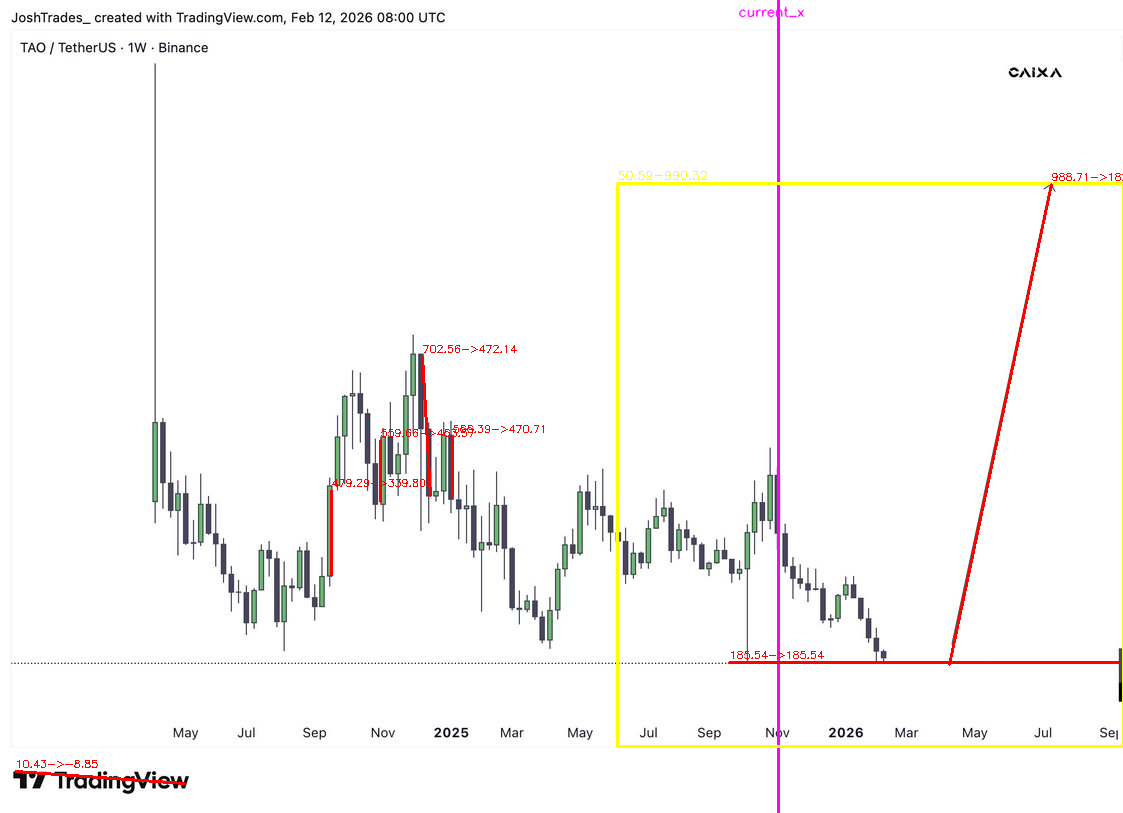
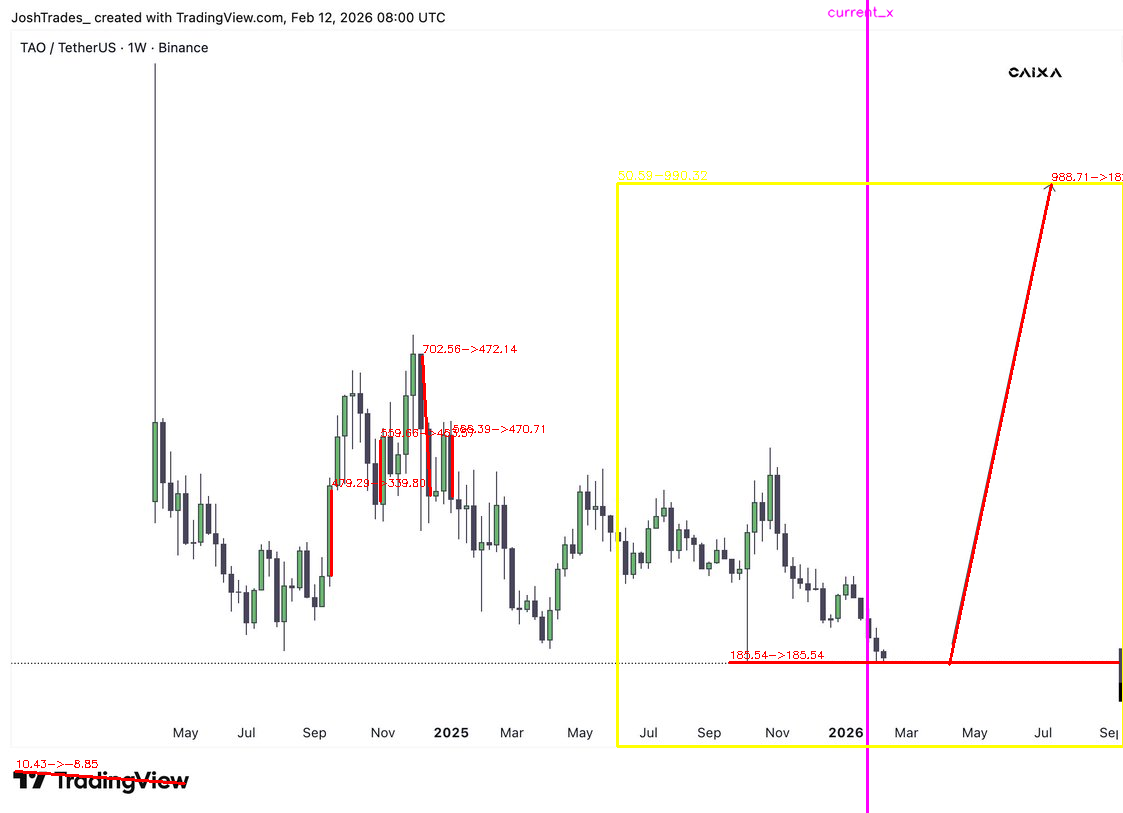
c4: add current_x marker and harden last-candle x detection

Changed region(s): [[0.6545, 0.0, 0.7168, 0.0308], [0.748, 0.0, 0.7792, 0.0308]]

diff --git a/src/c4/stages/candles_detect.py b/src/c4/stages/candles_detect.py
@@ -79,14 +79,88 @@ def run(
     x_right_limit_local = max(1, x_right_limit_local)
 
     analysis_crop = plot_crop[:, :x_right_limit_local]
+    analysis_w = int(analysis_crop.shape[1])
     gray = cv2.cvtColor(analysis_crop, cv2.COLOR_BGR2GRAY)
     edges = cv2.Canny(gray, 40, 120)
+    edges_clean = (edges > 0).astype(np.uint8)
+    num, labels, stats, _ = cv2.connectedComponentsWithStats(edges_clean, connectivity=8)
+    removed_long_thin_count = 0
+    for comp_id in range(1, num):
+        comp_w = int(stats[comp_id, cv2.CC_STAT_WIDTH])
+        comp_h = int(stats[comp_id, cv2.CC_STAT_HEIGHT])
+        comp_area = int(stats[comp_id, cv2.CC_STAT_AREA])
+        bbox_area = max(1.0, float(comp_w * comp_h))
+        fill_ratio = float(comp_area) / bbox_area
+        long_ratio = max(
+            float(comp_w) / max(1.0, float(analysis_w)),
+            float(comp_h) / max(1.0, float(plot_h)),
+        )
+        if long_ratio >= 0.35 and fill_ratio <= 0.05 and comp_area >= 60:
+            edges_clean[labels == comp_id] = 0
+            removed_long_thin_count += 1
+    for comp_id in range(1, num):
+        comp_w = int(stats[comp_id, cv2.CC_STAT_WIDTH])
+        comp_h = int(stats[comp_id, cv2.CC_STAT_HEIGHT])
+        comp_area = int(stats[comp_id, cv2.CC_STAT_AREA])
+        h_ratio = float(comp_h) / max(1.0, float(plot_h))
+        if h_ratio >= 0.60 and comp_w <= 8 and comp_area >= 30:
+            edges_clean[labels == comp_id] = 0
 
-    col_counts = np.count_nonzero(edges > 0, axis=0).astype(np.float32)
-    occupancy = col_counts / max(1.0, float(plot_h))
+    window = 9
+    band_y0 = int(0.12 * float(plot_h))
+    band_y1 = int(0.92 * float(plot_h))
+    band_y0 = max(0, min(band_y0, plot_h))
+    band_y1 = max(band_y0 + 1, min(band_y1, plot_h))
+    hsv = cv2.cvtColor(analysis_crop, cv2.COLOR_BGR2HSV)
+    teal_mask = cv2.inRange(hsv, (70, 61, 41), (110, 255, 255)).astype(np.uint8)
+    teal_band = teal_mask[band_y0:band_y1, :]
+    teal_frac = np.mean(teal_band > 0, axis=0) if teal_band.size > 0 else np.zeros((analysis_w,), dtype=np.float32)
+    teal_cond = teal_frac > 0.50
+    min_teal_run = int(max(40, 0.08 * float(analysis_w)))
+    overlay_start_local: int | None = None
+    overlay_teal_run_len = 0
+    run_start: int | None = None
+    best_run: tuple[int, int] | None = None
+    for i, flag in enumerate(teal_cond.tolist()):
+        if flag and run_start is None:
+            run_start = i
+        if (not flag) and run_start is not None:
+            run_end = i - 1
+            run_len = run_end - run_start + 1
+            if run_len >= min_teal_run and (best_run is None or run_end > best_run[1]):
+                best_run = (run_start, run_end)
+            run_start = None
+    if run_start is not None:
+        run_end = len(teal_cond) - 1
+        run_len = run_end - run_start + 1
+        if run_len >= min_teal_run and (best_run is None or run_end > best_run[1]):
+            best_run = (run_start, run_end)
+    overlay_suppressed = False
+    if best_run is not None:
+        cand_start, cand_end = best_run
+        if cand_start >= int(0.55 * float(analysis_w)):
+            overlay_start_local = int(cand_start)
+            overlay_teal_run_len = int(cand_end - cand_start + 1)
+            edges_clean[:, overlay_start_local:] = 0
+            overlay_suppressed = True
+
+    band = edges_clean[band_y0:band_y1, :]
+
+    col_counts = np.count_nonzero(band > 0, axis=0).astype(np.float32)
+    occupancy = col_counts / max(1.0, float(band.shape[0]))
     col_counts[occupancy > 0.70] = 0.0
+    if col_counts.size >= 1:
+        pad = min(col_counts.size // 2, max(12, window * 2))
+        if pad > 0:
+            col_counts[:pad] = 0.0
+            col_counts[-pad:] = 0.0
 
-    smoothed = _smooth_scores(col_counts, window=9)
+    smoothed = _smooth_scores(col_counts, window=window)
+    if smoothed.size >= 1 and col_counts.size >= 1:
+        pad = min(col_counts.size // 2, max(12, window * 2))
+        if pad > 0:
+            smoothed[:pad] = 0.0
+            smoothed[-pad:] = 0.0
     max_smoothed = float(smoothed.max()) if smoothed.size else 0.0
     if max_smoothed <= 0.0:
         return StageResult(
@@ -94,18 +168,53 @@ def run(
             confidence=0.0,
             abstain=False,
             reasons=[],
-            debug={"x_right_limit_local": x_right_limit_local, "max_smoothed": 0.0},
+            debug={
+                "x_right_limit_local": x_right_limit_local,
+                "max_smoothed": 0.0,
+                "max_right": 0.0,
+                "threshold": 0.0,
+                "picked_index": None,
+                "removed_long_thin_count": removed_long_thin_count,
+                "band_y0": band_y0,
+                "band_y1": band_y1,
+                "analysis_w": analysis_w,
+                "plot_h": plot_h,
+                "overlay_start_local": overlay_start_local,
+                "overlay_teal_run_len": overlay_teal_run_len,
+                "overlay_suppressed": overlay_suppressed,
+            },
         )
 
-    threshold = max(10.0, 0.18 * max_smoothed)
-    idx = _pick_rightmost_run(smoothed.tolist(), threshold, min_run=6)
+    n = int(smoothed.size)
+    start = int(0.60 * n)
+    max_right = float(smoothed[start:].max()) if n > 0 and start < n else 0.0
+    if max_right <= 0.0:
+        max_right = max_smoothed
+
+    min_abs = max(3.0, 0.005 * float(plot_h))
+    threshold = max(min_abs, 0.25 * max_right)
+    idx = _pick_rightmost_run(smoothed.tolist(), threshold, min_run=4)
     if idx is None:
         return StageResult(
             data=None,
             confidence=0.0,
             abstain=False,
             reasons=[],
-            debug={"x_right_limit_local": x_right_limit_local, "max_smoothed": max_smoothed, "threshold": threshold},
+            debug={
+                "x_right_limit_local": x_right_limit_local,
+                "max_smoothed": max_smoothed,
+                "max_right": max_right,
+                "threshold": threshold,
+                "picked_index": None,
+                "removed_long_thin_count": removed_long_thin_count,
+                "band_y0": band_y0,
+                "band_y1": band_y1,
+                "analysis_w": analysis_w,
+                "plot_h": plot_h,
+                "overlay_start_local": overlay_start_local,
+                "overlay_teal_run_len": overlay_teal_run_len,
+                "overlay_suppressed": overlay_suppressed,
+            },
         )
 
     current_x_px = float(px0 + idx)
@@ -118,8 +227,16 @@ def run(
         debug={
             "x_right_limit_local": x_right_limit_local,
             "max_smoothed": max_smoothed,
+            "max_right": max_right,
             "threshold": threshold,
             "picked_index": int(idx),
+            "removed_long_thin_count": removed_long_thin_count,
+            "band_y0": band_y0,
+            "band_y1": band_y1,
+            "analysis_w": analysis_w,
+            "plot_h": plot_h,
+            "overlay_start_local": overlay_start_local,
+            "overlay_teal_run_len": overlay_teal_run_len,
+            "overlay_suppressed": overlay_suppressed,
         },
     )
-
